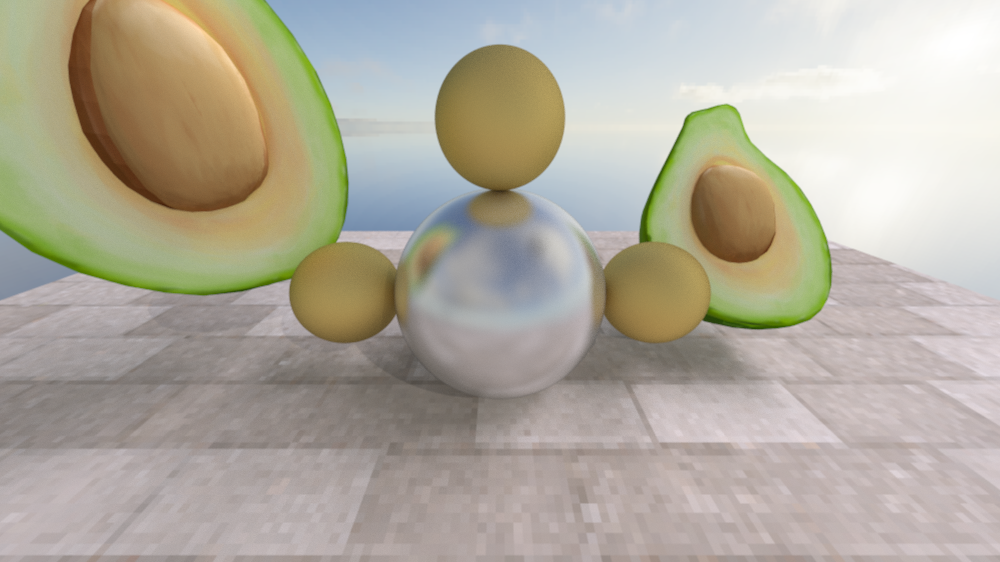
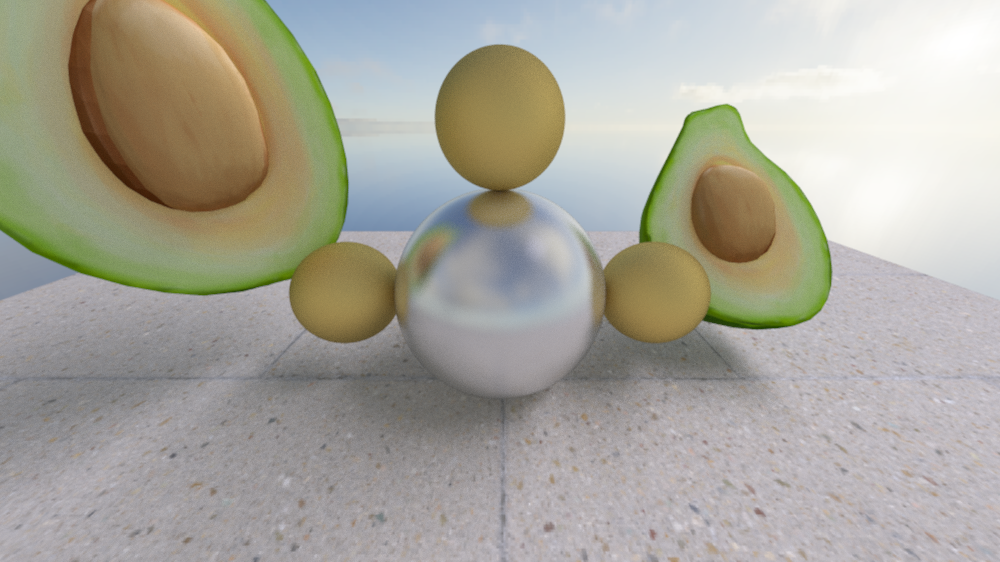
Finished ray and path tracing post.

diff --git a/src/pages/posts/ray-and-path-tracers.md b/src/pages/posts/ray-and-path-tracers.md
@@ -5,8 +5,8 @@ pubDate: 2024-04-20
 description: "Implementation and renders of a ray and path tracer."
 author: 'Matt Bishop'
 tags: ['featured', 'ray tracing', 'path tracing']
-draft: true
-image: /assets/images/rp-renders/end-scene-in.png
+draft: false
+image: /assets/images/rp-renders/card.png
 ---
 
 ## Demo
@@ -20,13 +20,13 @@ This is the scene you get when you get primitives working, and mesh rendering wo
 This is a post about my ray and path tracer called **Tracer**.
 I enjoyed playing Overwatch when that came out (almost 10 years ago, wow), and was happy to find a relation.
 
-I'll breifly talk about ray and path tracing, and some specific changes I've made.
+I'll briefly talk about ray and path tracing, and some specific changes I've made.
 This isn't a post about learning ray or path tracing.
 If you are interested in learning about this topic, I'll point you to _Ray Tracing In One Weekend_[^one-weekend].
 
 ## Ray Tracing
 
-I first tackled this problem while learning computer graphics on my own during the pandemic.
+I first tackled ray tracing while learning computer graphics on my own during the pandemic.
 My wife got me a Humble Bundle containing books about computer graphics that was life changing.
 I got interested in the topic, and started working through some books.
 I was over my head, but started looking around for other resources online.
@@ -35,12 +35,12 @@ Through those resources I was able to learn and create a ray tracer!
 I would later create a ray tracer as coursework for CS455 and CS655 at BYU.
 
 In a nutshell, ray tracing is focused on figuring out how to take a 3D scene and turn it into a 2D image.
-We start with a camera at some point in that 3D scene, and from the camera, we shoot out rays into the scene.
+We start with a camera at some point in that 3D scene, and from the camera, we shoot rays into the scene.
 For each pixel in the resulting image, we send out a ray into the scene.
 The rays will either hit an object in the scene, or miss everything.
 
 One a ray hits an object, we need to figure out what color that point should be.
-To figure that out, we will see what color the object is, if it is shiny or not, or if it is transparent to name a few.
+To figure that out, we will see what color the object is, if it is shiny or not, or if it is transparent.
 If the object is shiny, we will send off a new ray to figure out what we should see in the reflection of the surface.
 For all hits, we send off a shadow ray, or a ray to see if the point we've hit is directly lit by a light source.
 We combine all of those rays and sub-rays together to find the color for one pixel in the camera.
@@ -70,7 +70,7 @@ Ray tracing is an "embarrassingly parallel" problem where we can easily divide w
 The problem we're trying to solve is to figure out the color to a pixel in an image.
 If each thread had a group of pixels, they don't need to talk to one another to figure out the final result.
 
-By using C++17's execution policies, I was able to easily create a parallel for-each loop as shown in the following code.
+By using C++17's execution policies and C++20's `iota`, I was able to create a parallel for-each loop as shown in the following code.
 
 ```cpp
 const auto rowRange = std::ranges::views::iota(0, renderingOptions.imageHeight);
@@ -90,22 +90,21 @@ The main idea is that you perturb rays that you send out according to some analy
 In my implementation, I perturbed the ray by some random vector in a unit sphere centered on the ray's origin.
 
 What I haven't done yet is the more modern interpretation of the word "distributed", a.k.a. across different machines.
-I have worked with OpenMPI[^ompi] previously, so that would be a fun exercise to get a few machines together and stress test them.
+I have worked with OpenMPI[^ompi] previously, so that would be a fun exercise to get a few machines together and create some pictures.
 
 #### Linear Algebra Approach to Ray-Sphere intersections
 
-Do you like quadratic equations? Really? Something that I haven't liked about teaching ray tracing is that as students we start in fun linear algebra land.
+Do you like quadratic equations? Something that I haven't liked about learning ray tracing is that as students we start in fun linear algebra land.
 We're thinking of rays shooting across space, then we are presented with the quadratic formula.
-I really like the approach to the ray-sphere intersection that is based on geometry and intuition.
+I really like the linear algebra approach to the ray-sphere intersection.
 Or in other words, I don't find the quadratic equation approach intuitive.
 
-Here is a crude writeup of the general process to solve the ray-sphere intersection with some linear algebra.
+Here is a crude whiteboard session of the general process to solve the ray-sphere intersection with some linear algebra:
 
 ![Ray-Sphere Intersection](/assets/images/rp-renders/ray-sphere.png)
 
 For an in-depth explanation, I've found an article by Kyle Halladay [^rsi-article] that would be helpful.
 I might do my own one day, but I don't want to turn this post into one.
-One thing I will say is that in this approach is that I like how there are so many ways that we can return early out of the intersection test.
 
 ## Path Tracing
 
@@ -113,8 +112,8 @@ I implemented the path tracing as coursework during CS655, or advanced computer 
 Path tracing was introduced in the paper _The rendering equation_ by James Kajiya[^rendering-eq].
 
 The rendering equation is way to account for all light interactions in an environment.
-Path tracing is one proposed way to solve the rendering equation, or try to account for all light interactions.
-It is an extension to ray tracing where we randomly sample light paths (think reflection, refraction, shadow rays).
+Path tracing is one proposed way to solve the rendering equation, or to try to account for all light interactions.
+It is an extension to ray tracing where we randomly sample light paths (think reflection, refraction, and shadow rays).
 This means that we only choose one type of ray to generate and follow, as opposed to ray tracing where we generate and follow all possible rays.
 
 <figure>
@@ -126,17 +125,17 @@ Path tracing introduces a new type of reflection, diffuse reflection! With this 
 Caustics are light rays that go through a transparent object and are grouped together.
 
 <figure>
-  <img src="/assets/images/rp-renders/end-scene-out.png" width="512px" alt="Zoomed out demo scene"/>
+  <img src="/assets/images/rp-renders/end-scene-out.png" width="800px" alt="Zoomed out demo scene"/>
   <figcaption><b>Render 4:</b> A larger persepctive </figcaption>
 </figure>
 
+This render is of the same scene in the demo section, with the camera places away from the scene.
+My initial intentions were to make an avocado family picture.
 
 ### Image Based Lighting
 
-The basics of this is that instead of returning some background color, you would sample a cube map with a texture of an environment.
-That way you get to see some sky in reflections.
-
-This does apply to the ray tracing method as well, since you can toggle between which rendering method you want in the scene file.
+The basics of image based lighting is that instead of returning some background color if your ray misses geometry, you would instead sample a cube map with a texture of an environment.
+That is how you're able to see the sky in the reflection of the center sphere in Render 4.
 
 ## About the project
 
@@ -168,16 +167,14 @@ I use [yaml-cpp](https://github.com/jbeder/yaml-cpp) to read in this file at run
 Outputs png images using [lodepng](https://lodev.org/lodepng/).
 
 I also use [indicators](https://github.com/p-ranav/indicators) to visualize the render's progress through command line output.
-Gives a breakdown of progress, elapsed time, and then expected remaining time. Handy to see this visual.
+Gives a breakdown of progress, elapsed time, and expected remaining time. Handy to see this visual:
 
 ```
-...
 [======================>                     ] 51% [09m:22s<08m:51s] Rendering ...
 [======================>                     ] 51% [09m:26s<08m:51s] Rendering ...
 [======================>                     ] 51% [09m:29s<08m:50s] Rendering ...
 [======================>                     ] 51% [09m:33s<08m:50s] Rendering ...
 [=======================>                    ] 52% [09m:36s<08m:49s] Rendering ...
-...
 ```
 
 ## Future Work
@@ -189,18 +186,16 @@ I've done that in a separate OpenGL project, but would like to apply that here a
 It could still output frames, and those frames could be composed to a video.
 With having movement in the scene, I would also want to add motion blurring.
 
-BRDFs for materials
-- Currently using a very simplistic reflectance model
-- Look to consume these from standard tools
-
-Standard scene format
-- Look to use USD or another standard scene format
+**BRDFs**. The materials used in the are based on a simplistic reflectance model, I guess as opposed to physically based rendering.
+I'd look to consume these from standard tools, and not create another custom format.
 
 ## Conclusion
 
 I really enjoyed first learning about ray tracing, and how we can apply linear algebra to create cool and interesting pictures.
 During my undergrad, I took a linear algebra course and really enjoyed it. I felt like it was the first math class that I took where I really understood the application of what we were learning about.
-Once I learned about computer graphics, I was sold.
+Once I started learning about computer graphics, I was sold.
+
+Thanks for reading!
 
 [^one-weekend]: https://raytracing.github.io/
 [^drt]: https://dl.acm.org/doi/10.1145/964965.808590
